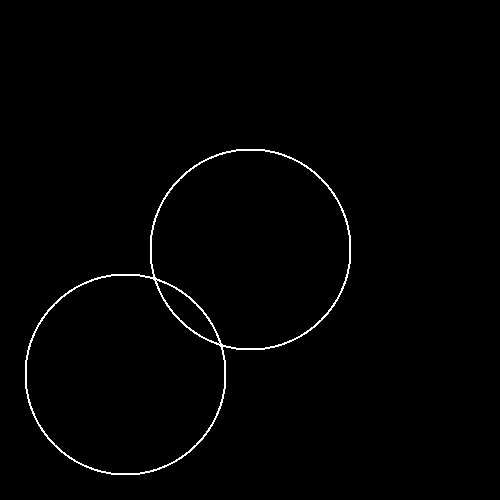
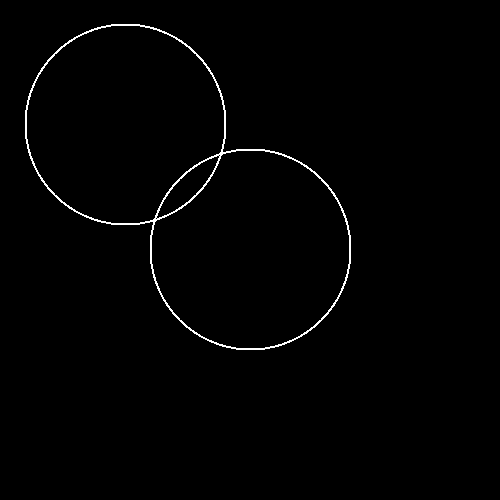
test rosace

diff --git a/src/main.cpp b/src/main.cpp
@@ -216,7 +216,7 @@ void rosace(sil::Image fond, int thickness)
                 fond.pixel(x, y).b = 255;
             };
 
-            if (pow(x - fond.width() / 4, 2) + pow(y - fond.height() / 4, 2) > 10000 - thickness && pow(x - fond.width() / 4, 2) + pow(y - fond.height() / 4, 2) < 10000 + thickness)
+            if (pow(x - fond.width() / 4, 2) + pow(y - 3*fond.height() / 4, 2) > 10000 - thickness && pow(x - fond.width() / 4, 2) + pow(y - 3*fond.height() / 4, 2) < 10000 + thickness)
             {
                 fond.pixel(x, y).r = 255;
                 fond.pixel(x, y).g = 255;
@@ -245,7 +245,7 @@ int main()
     split(image) ;
     assombrissement(photo) ;
     eclaircissement(photo) ;*/
-    disque(fond);
-    cercle(fond, 200);
+    // disque(fond);
+    // cercle(fond, 200);
     rosace(fond, 200) ;
 }
